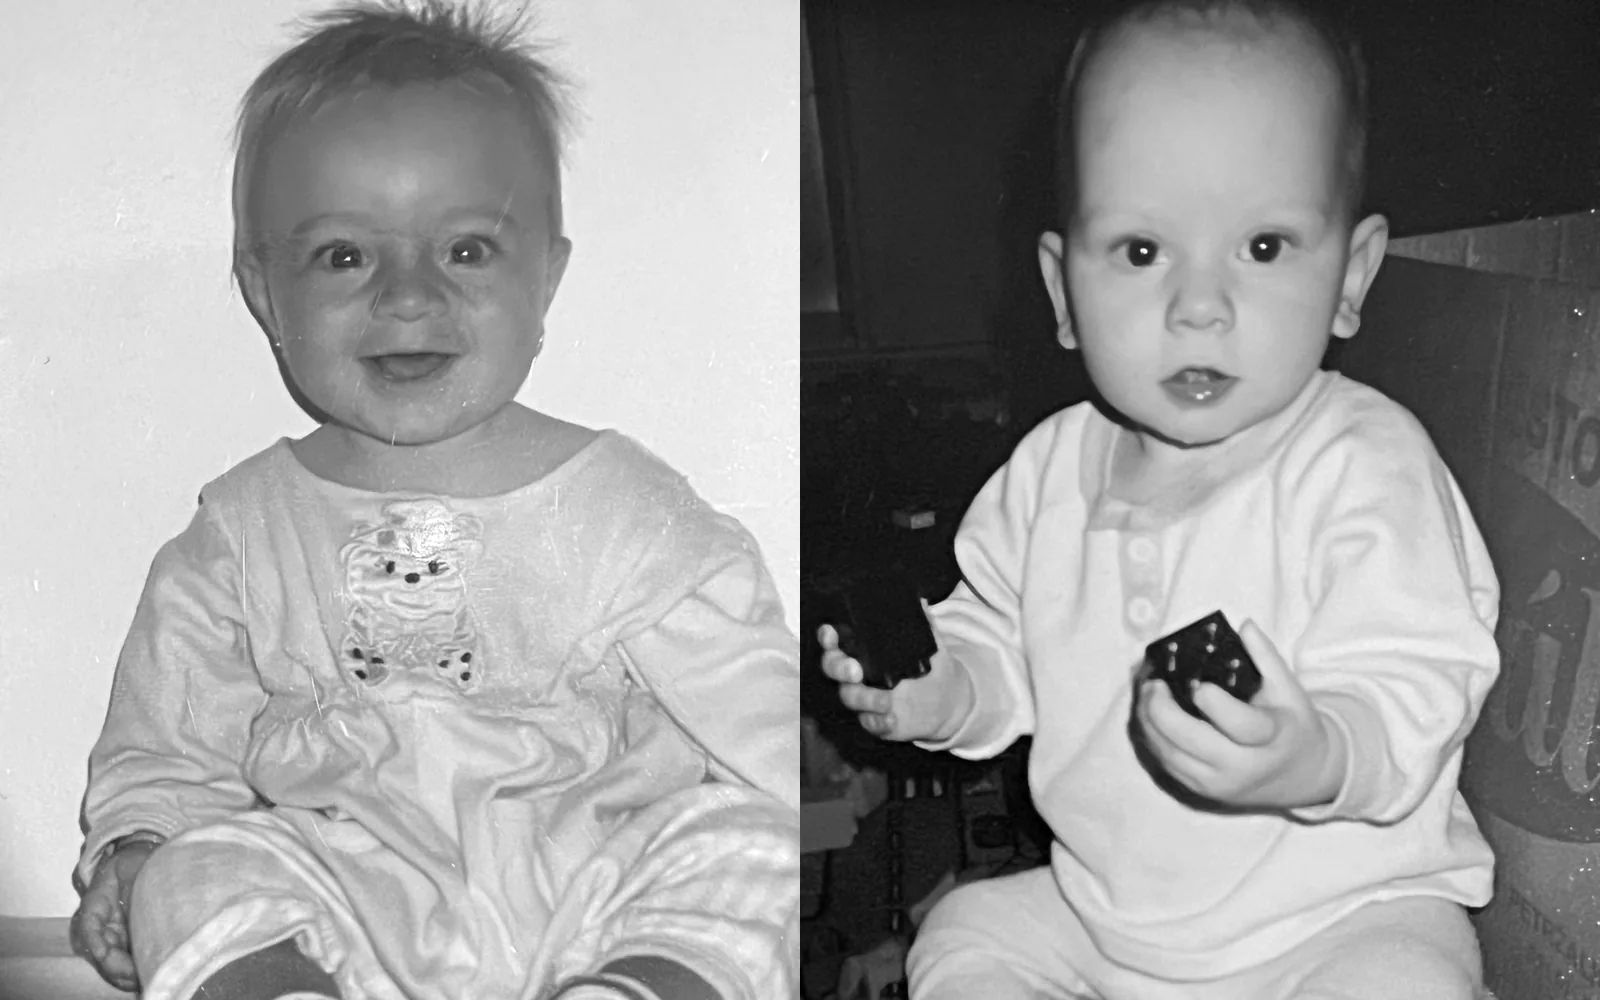
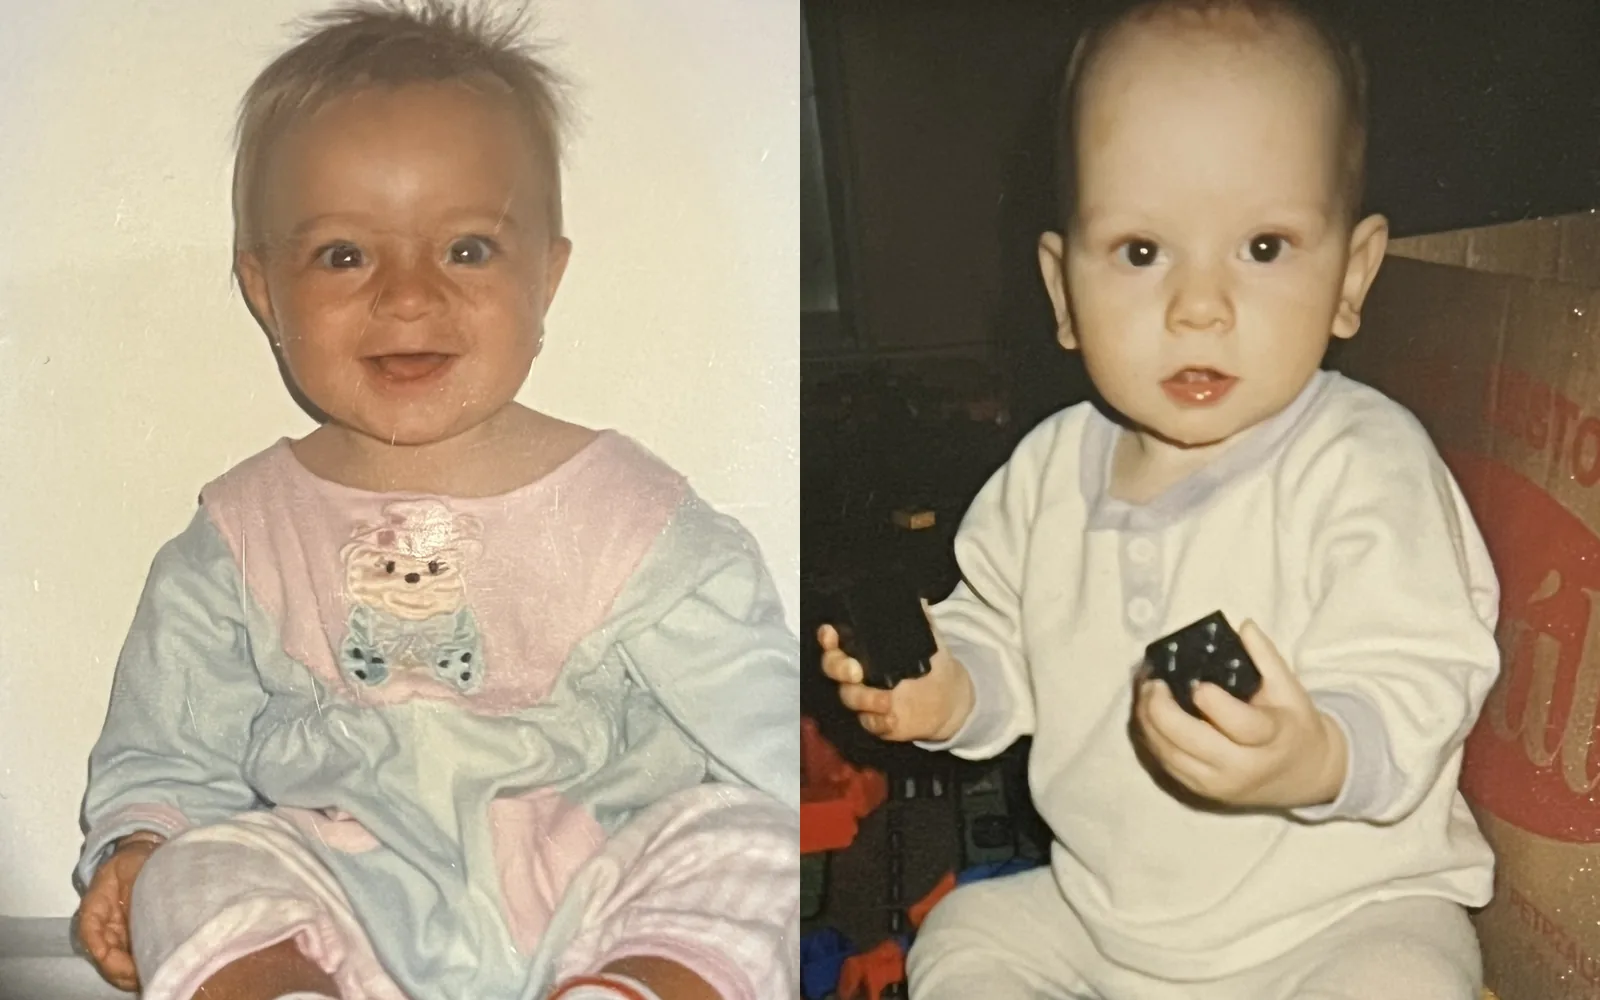
Detská fotka opäť farebná

diff --git a/src/config/wedding.ts b/src/config/wedding.ts
@@ -97,7 +97,7 @@ export const wedding: WeddingConfig = {
       image: {
         src: 'images/detstvo/spolu.webp',
         label: 'Veronika & Marek',
-        alt: 'Čiernobiele detské fotky vedľa seba: vľavo sa smeje malá Veronika, vpravo sedí malý Marek s kockami stavebnice',
+        alt: 'Detské fotky vedľa seba: vľavo sa smeje malá Veronika, vpravo sedí malý Marek s kockami stavebnice',
         width: 1600,
         height: 1000,
       },
